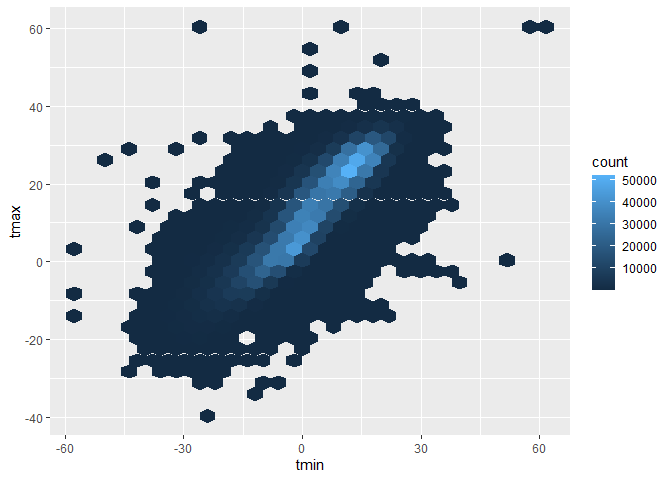
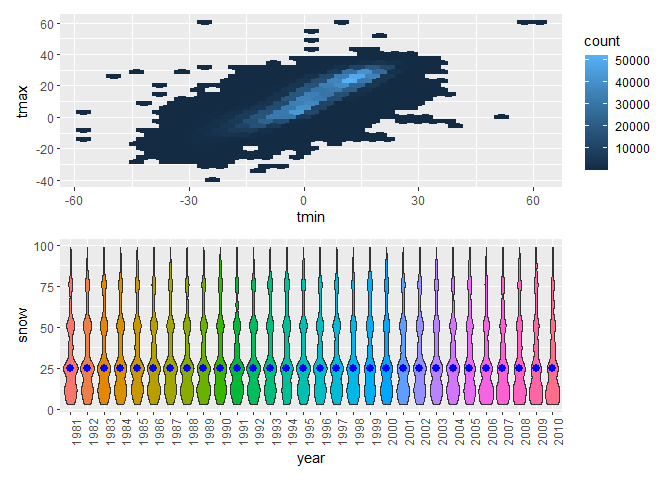
modification on plots of problem 1 and 2

diff --git a/p8105_hw3_zs2539.md b/p8105_hw3_zs2539.md
@@ -96,6 +96,7 @@ library(ggridges)
 instacart %>%
   count(aisle) %>%
   filter(n > 10000) %>%
+    mutate(aisle = fct_reorder(aisle, n)) %>%
   ggplot(aes(x = aisle, y = n)) + geom_point() + theme(axis.text.x = element_text
   (angle = 90)) +
   labs(
@@ -259,12 +260,16 @@ knitr::kable(accel_day)
 ``` r
 accel_day %>%
   group_by(day_id) %>%
-  ggplot(aes(x = day_id, y = day_counts, fill = day_id)) + geom_bar(stat = "identity", position = "dodge") + labs(
+  ggplot(aes(x = day_id, y = day_counts, fill = day_id)) + geom_bar(stat = "identity", position = "dodge") +
+    geom_smooth(se = F) + 
+    labs(
     title = "Accelerometer Daily Activity Counts",
     x = "Day No.",
     y = "Activity Counts"
   )
 ```
+
+    ## `geom_smooth()` using method = 'loess' and formula 'y ~ x'
 
 ![](p8105_hw3_zs2539_files/figure-gfm/unnamed-chunk-8-1.png)<!-- -->
 
@@ -292,8 +297,8 @@ Trends:
 By the one form and two plots above, some apparent trends are as
 follows.
 
--   On the last several days, activity counts tend to be lower than that
-    in the beginning days.
+-   Around day 25, activity counts tend to be lower than that around day
+    12.
 -   Tuesday recorded the lowest activity counts, while Monday recorded
     the highest counts.
 
@@ -421,22 +426,18 @@ maximum temperature fluctuates apparently compared with that in July.
 There is some apparent outliers such as one station extremely warmer on
 Jan. 2004, while one station extremely colder July 1988.
 
-#### c. (i) tmax - tmin plot for the full dataset
+#### c. (i) tmax - tmin plot for the full dataset; (ii) plotting distribution of snowfall values 0-100 by year
 
 ``` r
-  ny_precipitation %>% 
+library(patchwork)
+
+tmax_tmin <- 
+    ny_precipitation %>% 
   ggplot(aes(x = tmin, y = tmax)) + 
   geom_hex()
-```
 
-    ## Warning: Removed 1136276 rows containing non-finite values (stat_binhex).
-
-![](p8105_hw3_zs2539_files/figure-gfm/unnamed-chunk-14-1.png)<!-- -->
-
-#### c. (ii) plotting distribution of snowfall values 0-100 by year
-
-``` r
-ny_precipitation %>% 
+snow_year <-
+    ny_precipitation %>% 
   filter(snow < 100 & snow > 0) %>%
   mutate(year = factor(year)) %>%
   ggplot(aes(x = year, y = snow)) + 
@@ -444,14 +445,18 @@ ny_precipitation %>%
     stat_summary(fun = "median", color = "blue") +
   theme(axis.text.x = element_text(angle = 90),
         legend.position="none")
+
+tmax_tmin / snow_year
 ```
+
+    ## Warning: Removed 1136276 rows containing non-finite values (stat_binhex).
 
     ## Warning: Removed 30 rows containing missing values (geom_segment).
 
-![](p8105_hw3_zs2539_files/figure-gfm/unnamed-chunk-15-1.png)<!-- -->
+![](p8105_hw3_zs2539_files/figure-gfm/unnamed-chunk-14-1.png)<!-- -->
 
 In general, min and max temperature have a positive correlation by hex
-plot. Also, their binary temperature ranges from -5 - 0 to 17 - 30
-degrees Celsius. By the second violin plot, we can see the snowfall
-values do not vary apparently by year, and their mean snowfall are all
-approximately 25mm.
+plot. Also, their binary temperature linearly ranges from (-5, 0) to
+(17, 30) degrees Celsius. By the second violin plot, we can see the
+snowfall values do not vary apparently by year, and their mean snowfall
+are all approximately 25mm.
